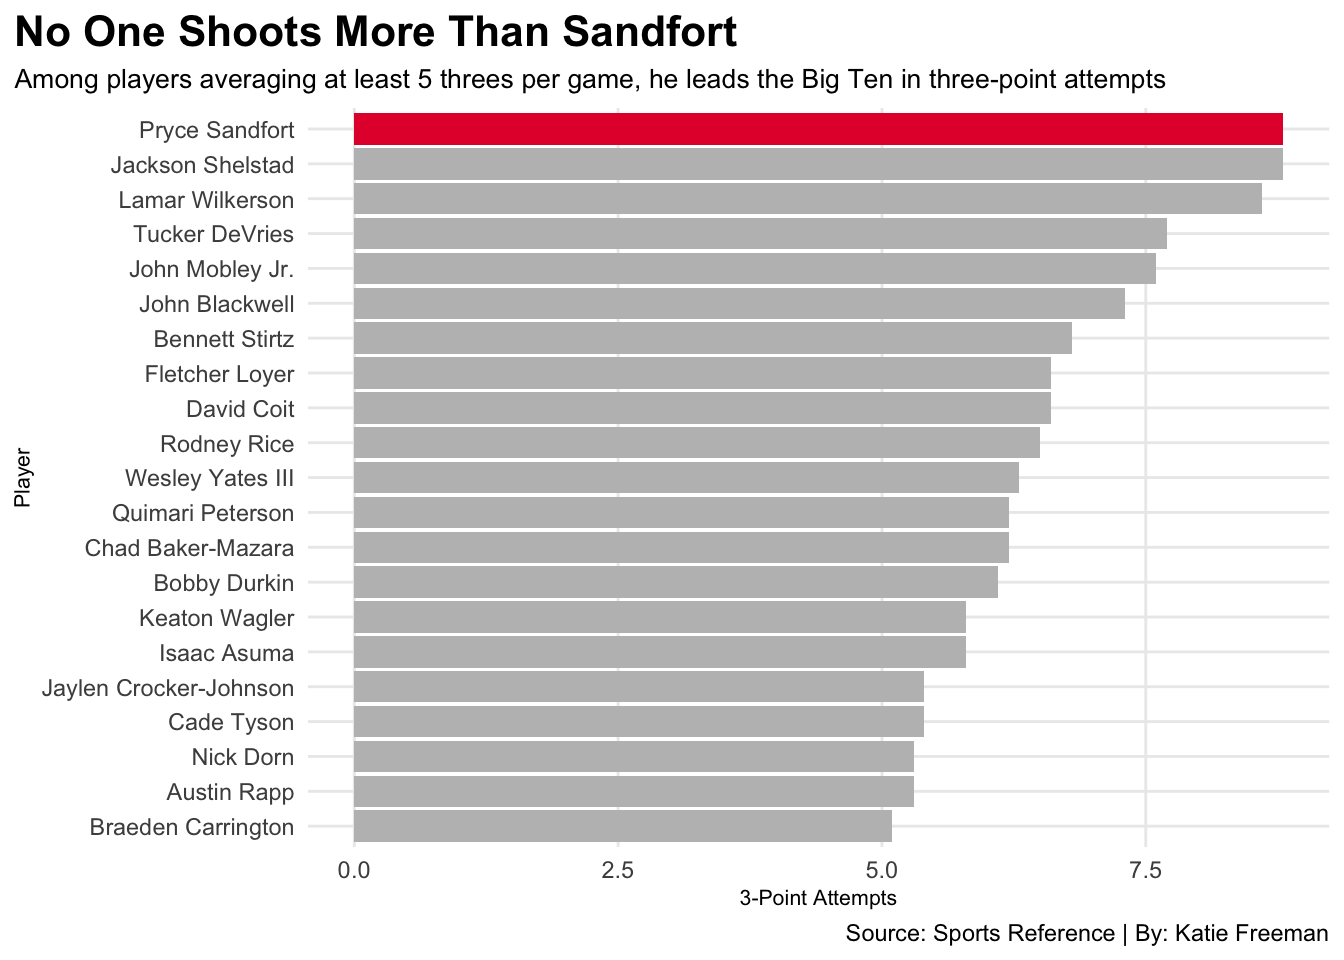
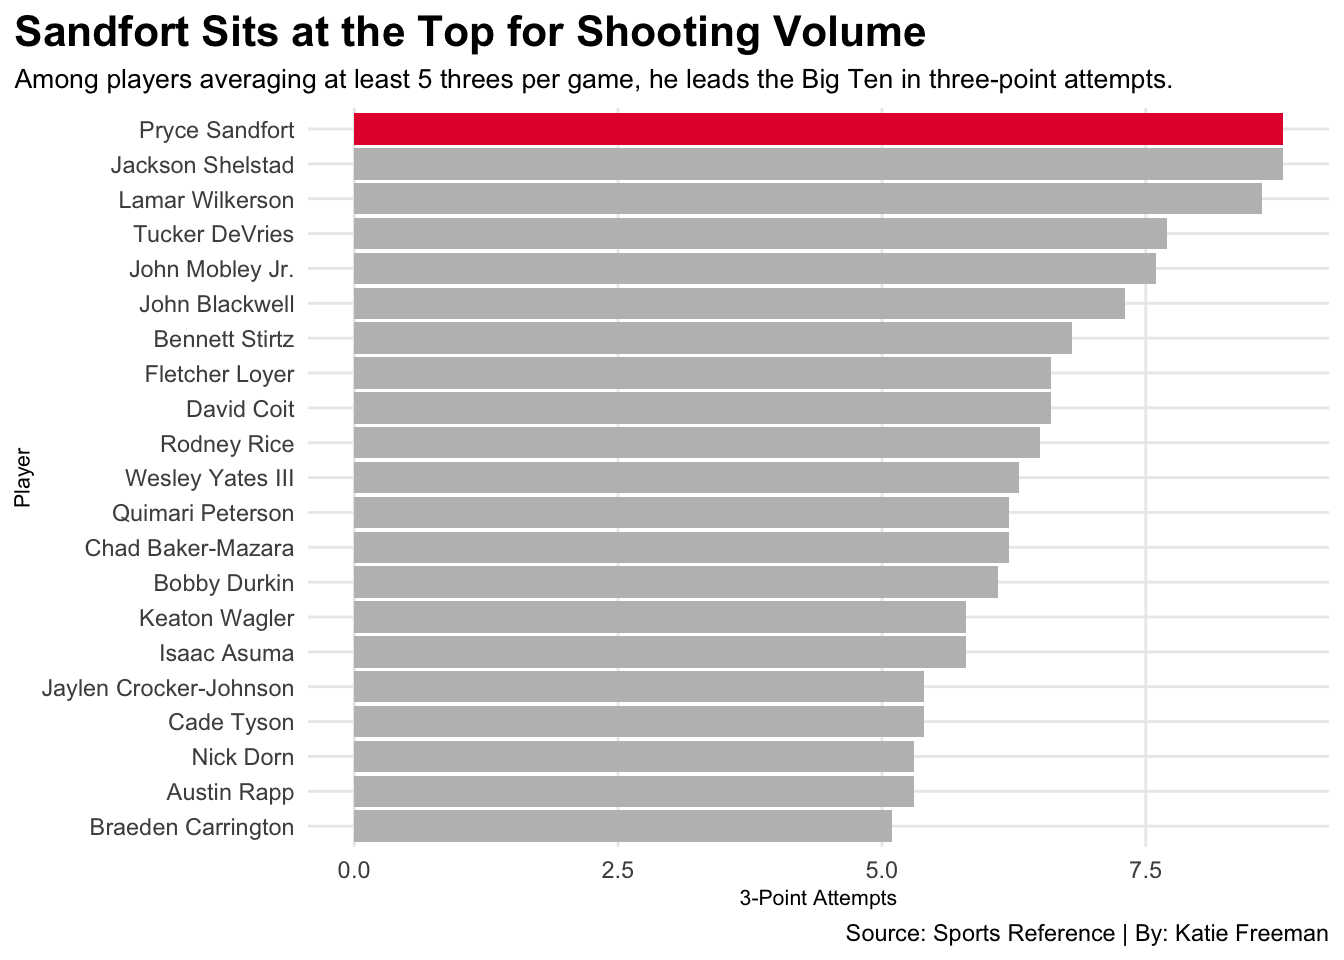
fixed a subtitle

Changed region(s): [[0.0, 0.0, 0.6875, 0.0625]]

diff --git a/posts/big-ten-husker-mens-basketball/index.html b/posts/big-ten-husker-mens-basketball/index.html
@@ -393,7 +393,7 @@ pre > code.sourceCode > span > a:first-child::before { text-decoration: underlin
 <span id="cb1-21"><a href="#cb1-21" aria-hidden="true" tabindex="-1"></a>    <span class="at">x=</span><span class="st">"Player"</span>, </span>
 <span id="cb1-22"><a href="#cb1-22" aria-hidden="true" tabindex="-1"></a>    <span class="at">y=</span><span class="st">"3-Point Attempts"</span>, </span>
 <span id="cb1-23"><a href="#cb1-23" aria-hidden="true" tabindex="-1"></a>    <span class="at">title=</span><span class="st">"Sandfort Sits at the Top for Shooting Volume"</span>,</span>
-<span id="cb1-24"><a href="#cb1-24" aria-hidden="true" tabindex="-1"></a>    <span class="at">subtitle=</span><span class="st">"Among players averaging at least 5 threes per game, he leads the Big Ten in three-point attempts"</span>, </span>
+<span id="cb1-24"><a href="#cb1-24" aria-hidden="true" tabindex="-1"></a>    <span class="at">subtitle=</span><span class="st">"Among players averaging at least 5 threes per game, he leads the Big Ten in three-point attempts."</span>, </span>
 <span id="cb1-25"><a href="#cb1-25" aria-hidden="true" tabindex="-1"></a>    <span class="at">caption=</span><span class="st">"Source: Sports Reference | By: Katie Freeman"</span></span>
 <span id="cb1-26"><a href="#cb1-26" aria-hidden="true" tabindex="-1"></a>    ) <span class="sc">+</span></span>
 <span id="cb1-27"><a href="#cb1-27" aria-hidden="true" tabindex="-1"></a>  <span class="fu">theme_minimal</span>() <span class="sc">+</span> </span>

diff --git a/index.html b/index.html
@@ -373,7 +373,7 @@ window.Quarto = {
 
 <div class="quarto-listing quarto-listing-container-default" id="listing-listing">
 <div class="list quarto-listing-default">
-<div class="quarto-post image-right" data-index="0" data-categories="YmlndGVuJTJDYmFza2V0YmFsbCUyQ2h1c2tlcnM=" data-listing-date-sort="1775797200000" data-listing-file-modified-sort="1775778417668" data-listing-date-modified-sort="NaN" data-listing-reading-time-sort="6" data-listing-word-count-sort="1009">
+<div class="quarto-post image-right" data-index="0" data-categories="YmlndGVuJTJDYmFza2V0YmFsbCUyQ2h1c2tlcnM=" data-listing-date-sort="1775797200000" data-listing-file-modified-sort="1775790185966" data-listing-date-modified-sort="NaN" data-listing-reading-time-sort="6" data-listing-word-count-sort="1009">
 <div class="thumbnail"><a href="./posts/big-ten-husker-mens-basketball/index.html" class="no-external">
 
 <img loading="lazy" src="./posts/big-ten-husker-mens-basketball/image.png" class="thumbnail-image">
